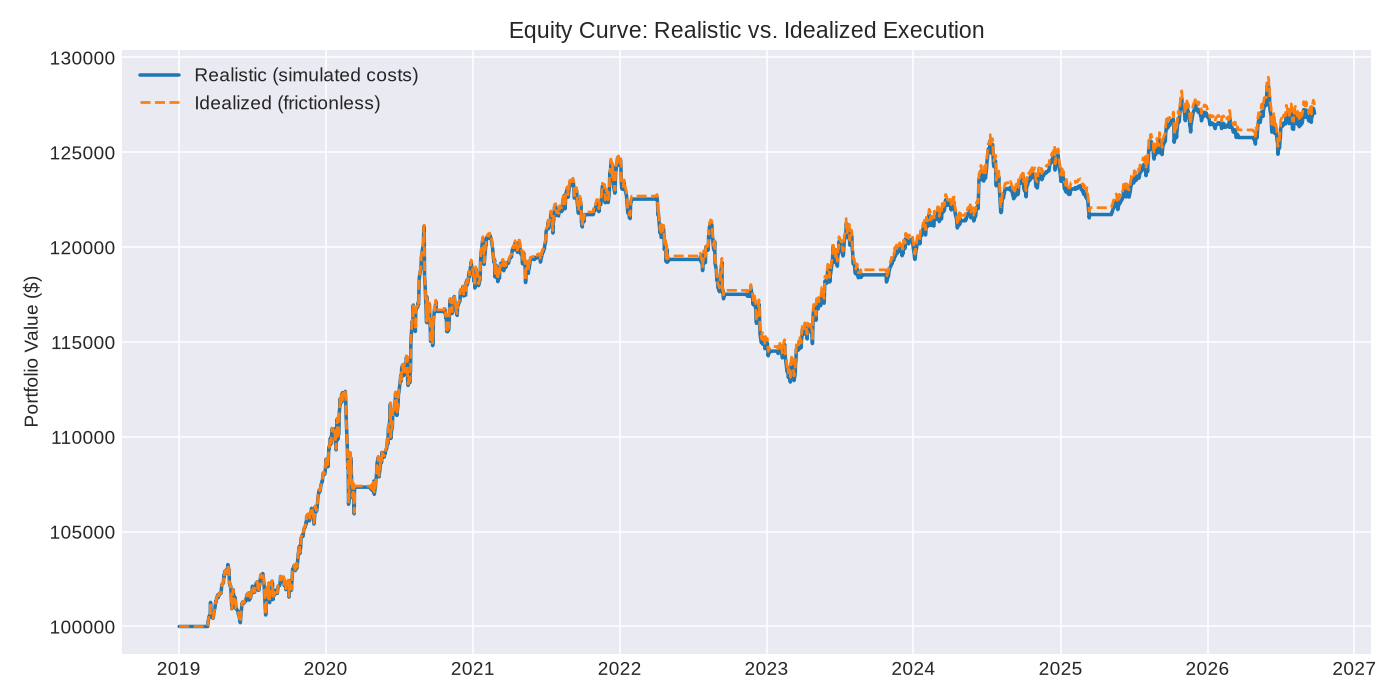
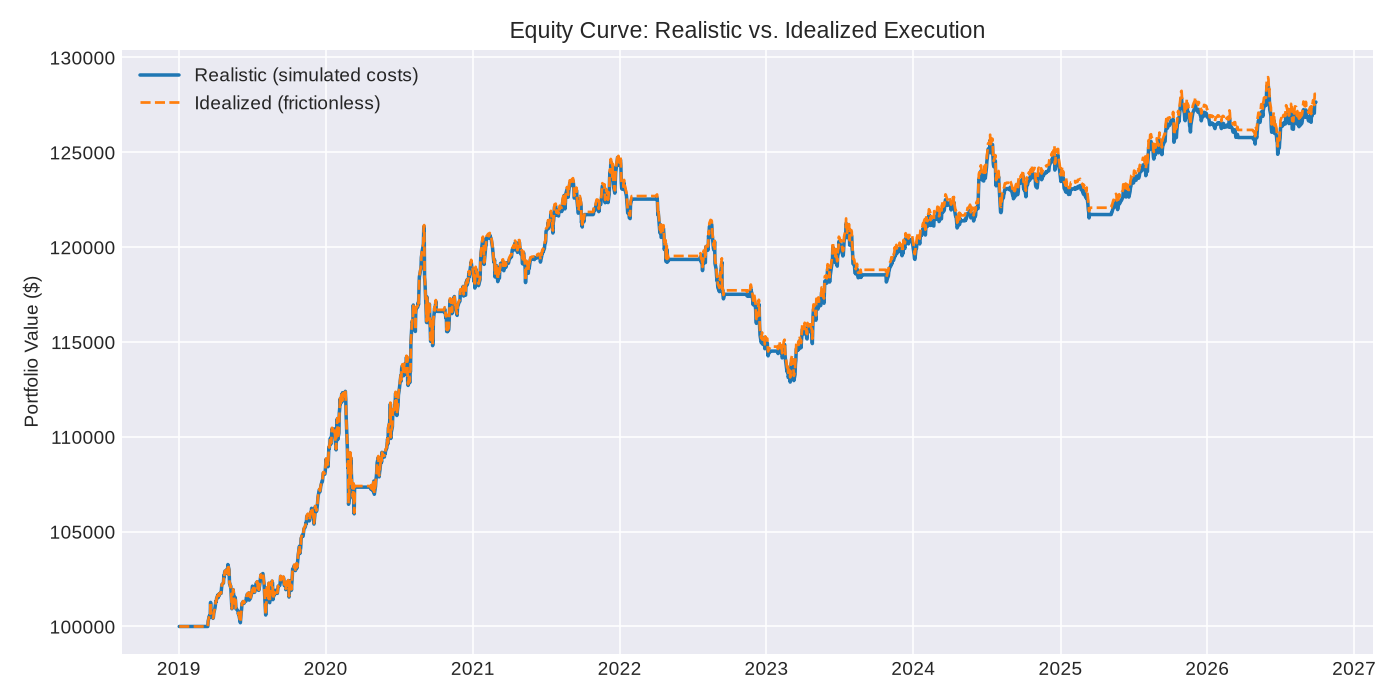
deploy: 45cbe317ee74215b34c4dbcc8cec7e9042c58db4

diff --git a/index.html b/index.html
@@ -11,9 +11,9 @@ img { max-width: 100%; margin-bottom: 24px; border: 1px solid #30363d; border-ra
 </style></head>
 <body>
 <h1>Event-Driven Backtest Tearsheet</h1>
-<p class="timestamp">Auto-generated 2026-09-25 23:59 UTC — this page regenerates every scheduled run, no manual step involved.</p>
+<p class="timestamp">Auto-generated 2026-09-29 01:05 UTC — this page regenerates every scheduled run, no manual step involved.</p>
 <h2>Summary</h2>
-<table><tr><td>Initial Capital</td><td>100000</td></tr><tr><td>Final Equity Realistic</td><td>127,058.1315</td></tr><tr><td>Final Equity Idealized</td><td>127,490.9311</td></tr><tr><td>Realistic Pnl</td><td>27,058.1315</td></tr><tr><td>Idealized Pnl</td><td>27,490.9311</td></tr><tr><td>Execution Cost Drag</td><td>432.7996</td></tr><tr><td>Execution Cost Drag Pct Of Idealized</td><td>0.0157</td></tr><tr><td>Total Return Pct</td><td>0.2706</td></tr><tr><td>Annualized Return</td><td>0.0315</td></tr><tr><td>Sharpe Ratio</td><td>0.7295</td></tr><tr><td>Sortino Ratio</td><td>0.8004</td></tr><tr><td>Max Drawdown</td><td>-0.0950</td></tr><tr><td>Turnover</td><td>10.4749</td></tr><tr><td>Num Fills</td><td>121</td></tr><tr><td>Total Slippage Dollars</td><td>311.4375</td></tr><tr><td>Total Commission Dollars</td><td>121.3621</td></tr><tr><td>Avg Latency Ms</td><td>81.8016</td></tr><tr><td>Num Partial Fills</td><td>0</td></tr></table>
+<table><tr><td>Initial Capital</td><td>100000</td></tr><tr><td>Final Equity Realistic</td><td>127,647.4846</td></tr><tr><td>Final Equity Idealized</td><td>128,080.2843</td></tr><tr><td>Realistic Pnl</td><td>27,647.4846</td></tr><tr><td>Idealized Pnl</td><td>28,080.2843</td></tr><tr><td>Execution Cost Drag</td><td>432.7996</td></tr><tr><td>Execution Cost Drag Pct Of Idealized</td><td>0.0154</td></tr><tr><td>Total Return Pct</td><td>0.2765</td></tr><tr><td>Annualized Return</td><td>0.0321</td></tr><tr><td>Sharpe Ratio</td><td>0.7424</td></tr><tr><td>Sortino Ratio</td><td>0.8146</td></tr><tr><td>Max Drawdown</td><td>-0.0950</td></tr><tr><td>Turnover</td><td>10.4741</td></tr><tr><td>Num Fills</td><td>121</td></tr><tr><td>Total Slippage Dollars</td><td>311.4375</td></tr><tr><td>Total Commission Dollars</td><td>121.3621</td></tr><tr><td>Avg Latency Ms</td><td>81.8016</td></tr><tr><td>Num Partial Fills</td><td>0</td></tr></table>
 <h2>Equity Curve</h2>
 <img src="equity_curve.png">
 <h2>Drawdown</h2>
